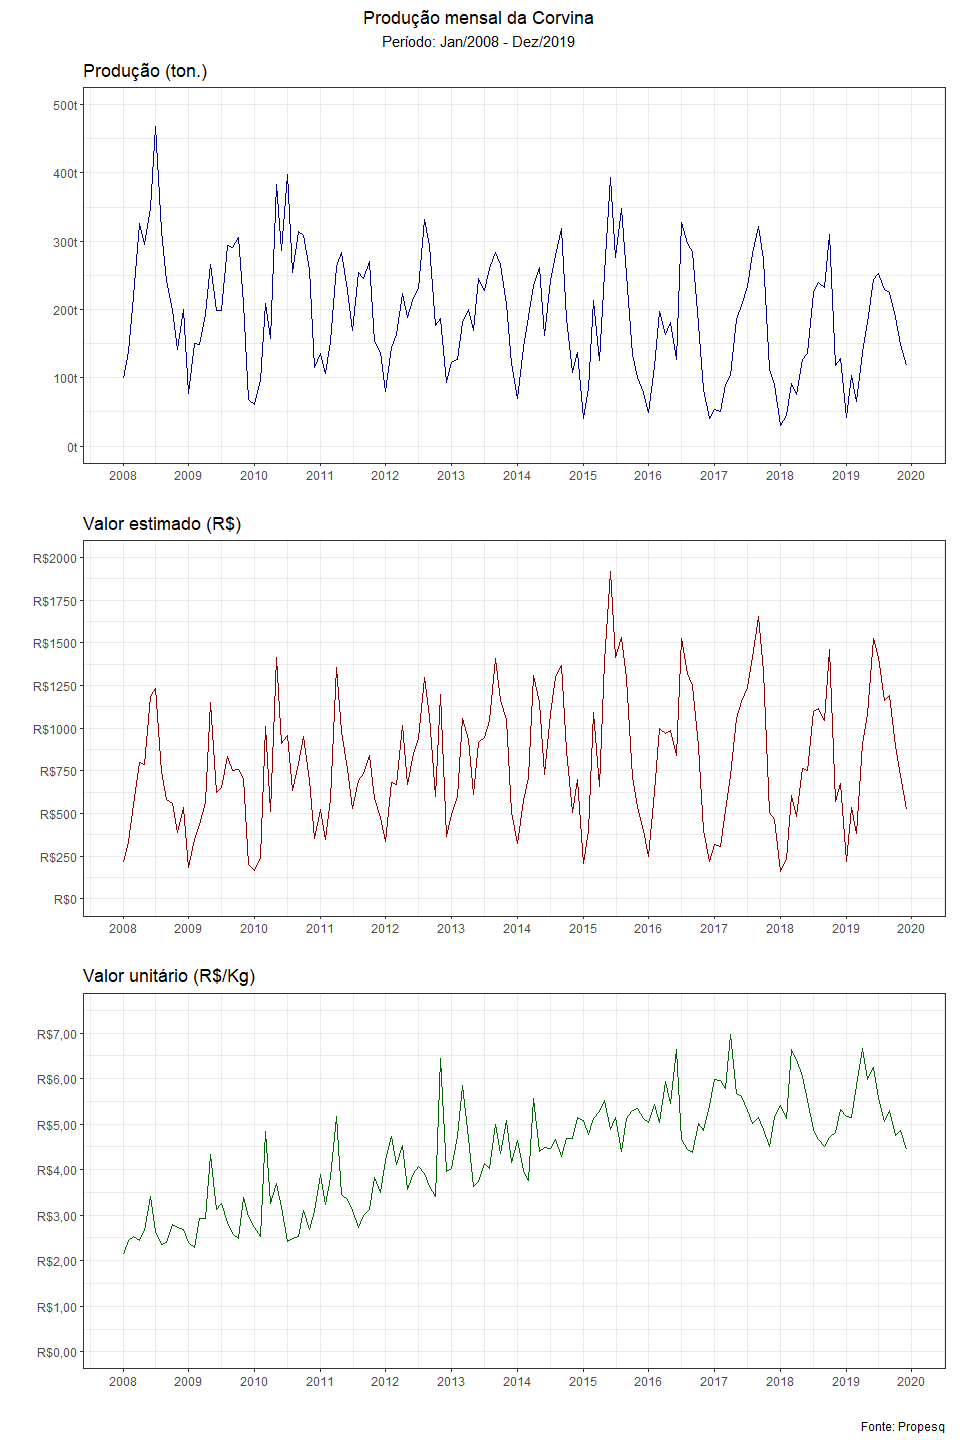
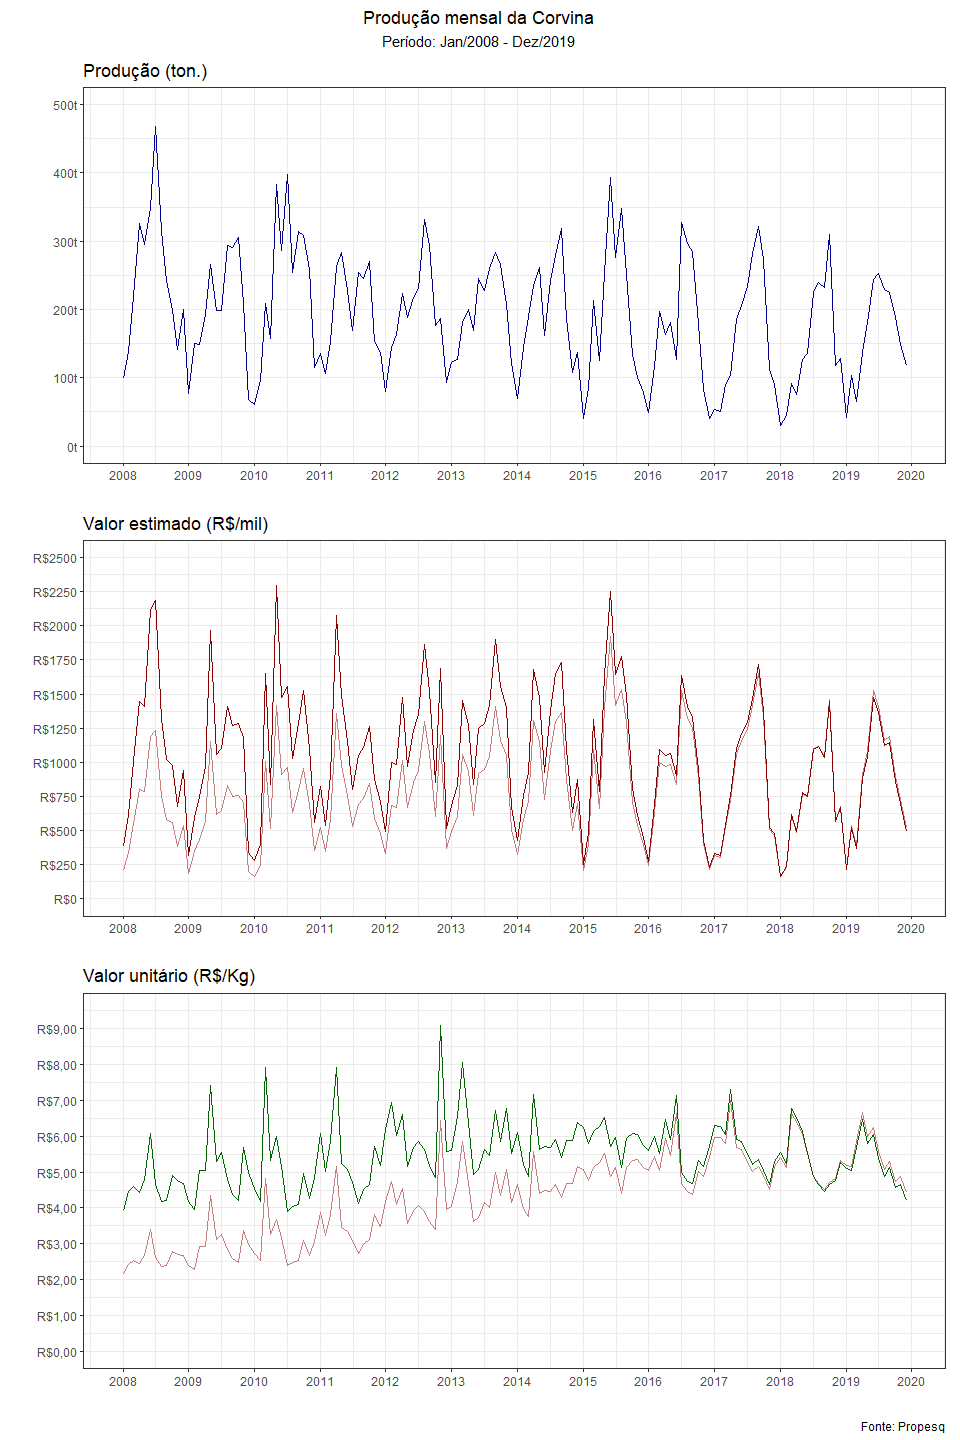
realiza correção de valores pelo IPCA

diff --git a/report/modelo_mqo_simples.md b/report/modelo_mqo_simples.md
@@ -101,11 +101,38 @@ Os dados utilizados são do Propesq.
 ``` r
 library(tidyverse)
 library(kableExtra)
+library(lubridate)
 
 propesq <- "../data/propesq.rds" %>% read_rds()
 
+#BETSsearch(description = "IPCA", lang = 'pt')
+ipca_ts <- BETS::BETSget(code = "433")
+
+ipca <- tibble(ipca = as.numeric(ipca_ts) / 100,
+               periodo = seq(ymd('1980-01-01'), ymd('2020-03-01'), by = 'month')
+               )
+
+base <- c(100)
+base_100 <- c()
+
+for(i in 1:length(ipca$ipca)) {
+  
+  base_100 <- (1 + ipca$ipca[i]) * base[i]
+  
+  base <- c(base, base_100)
+}
+
+ipca <- ipca %>% mutate(base = base[-1])
+
 corvina <- propesq %>% 
-  filter(valor_estimado > 0 & pescado == "Corvina" & ano > 2007)
+  filter(valor_estimado > 0 & pescado == "Corvina" & ano > 2007) %>%
+  left_join(., ipca, by="periodo")
+
+ipca_jun2018 <- ipca %>% filter(periodo == as.Date("2018-06-01")) %>% pull(base)
+
+corvina <- corvina %>% 
+  mutate(valor_estimado_real = valor_estimado * ipca_jun2018 / base)
+
 
 qtd <- corvina %>% 
   #filter(ano > 2015) %>% 
@@ -131,31 +158,37 @@ kg <- corvina %>%
 rt <- corvina %>% 
   #filter(ano > 2015) %>% 
   group_by(pescado, periodo) %>%
-  mutate(valor_estimado = sum(valor_estimado)) %>%
+  mutate(valor_estimado_real = sum(valor_estimado_real),
+         valor_estimado_nominal = sum(valor_estimado)) %>%
   ggplot() +
-  geom_line(aes(x=periodo, y=valor_estimado/1000), color = "darkred") +
+  geom_line(aes(x=periodo, y=valor_estimado_real/1000), color = "darkred") +
+  geom_line(aes(x = periodo, y = valor_estimado_nominal/1000), color = "darkred", alpha=0.5) +
   labs(y = "",
        x="",
-       title = "Valor estimado (R$)") +
+       title = "Valor estimado (R$/mil)") +
   scale_x_date(date_breaks = "1 year", date_labels = "%Y") +
-  scale_y_continuous(breaks = seq(0,2000, 250),
-                     labels = paste0("R$", seq(0,2000, 250)),
-                     limits = c(0,2000)) +
+  scale_y_continuous(breaks = seq(0,2500, 250),
+                     labels = paste0("R$", seq(0,2500, 250)),
+                     limits = c(0,2500)) +
   theme_bw()
+
 
 preco <- corvina %>%
   group_by(pescado, periodo) %>%
-  mutate(valor_estimado = sum(valor_estimado),
+  mutate(valor_estimado_real = sum(valor_estimado_real),
+         valor_estimado = sum(valor_estimado),
          kg = sum(kg),
-         preco = valor_estimado / kg) %>%
+         preco_real = valor_estimado_real / kg,
+         preco_nominal = valor_estimado / kg) %>%
   ggplot() +
-  geom_line(aes(x = periodo, y = preco), color = "darkgreen") +
+  geom_line(aes(x = periodo, y = preco_real), color = "darkgreen") +
+  geom_line(aes(x = periodo, y = preco_nominal), color = "darkred", alpha=0.5) +
   labs(y = "",
        x="",
        title = "Valor unitário (R$/Kg)") + 
-  scale_y_continuous(breaks = seq(0, 7.5, 1),
-                     labels = paste0("R$", seq(0, 7.5, 1), ",00"),
-                     limits = c(0, 7.5)) +
+  scale_y_continuous(breaks = seq(0, 9.5, 1),
+                     labels = paste0("R$", seq(0, 9.5, 1), ",00"),
+                     limits = c(0, 9.5)) +
   scale_x_date(date_breaks = '1 year', date_labels = "%Y") +
   theme_bw()
 ```
